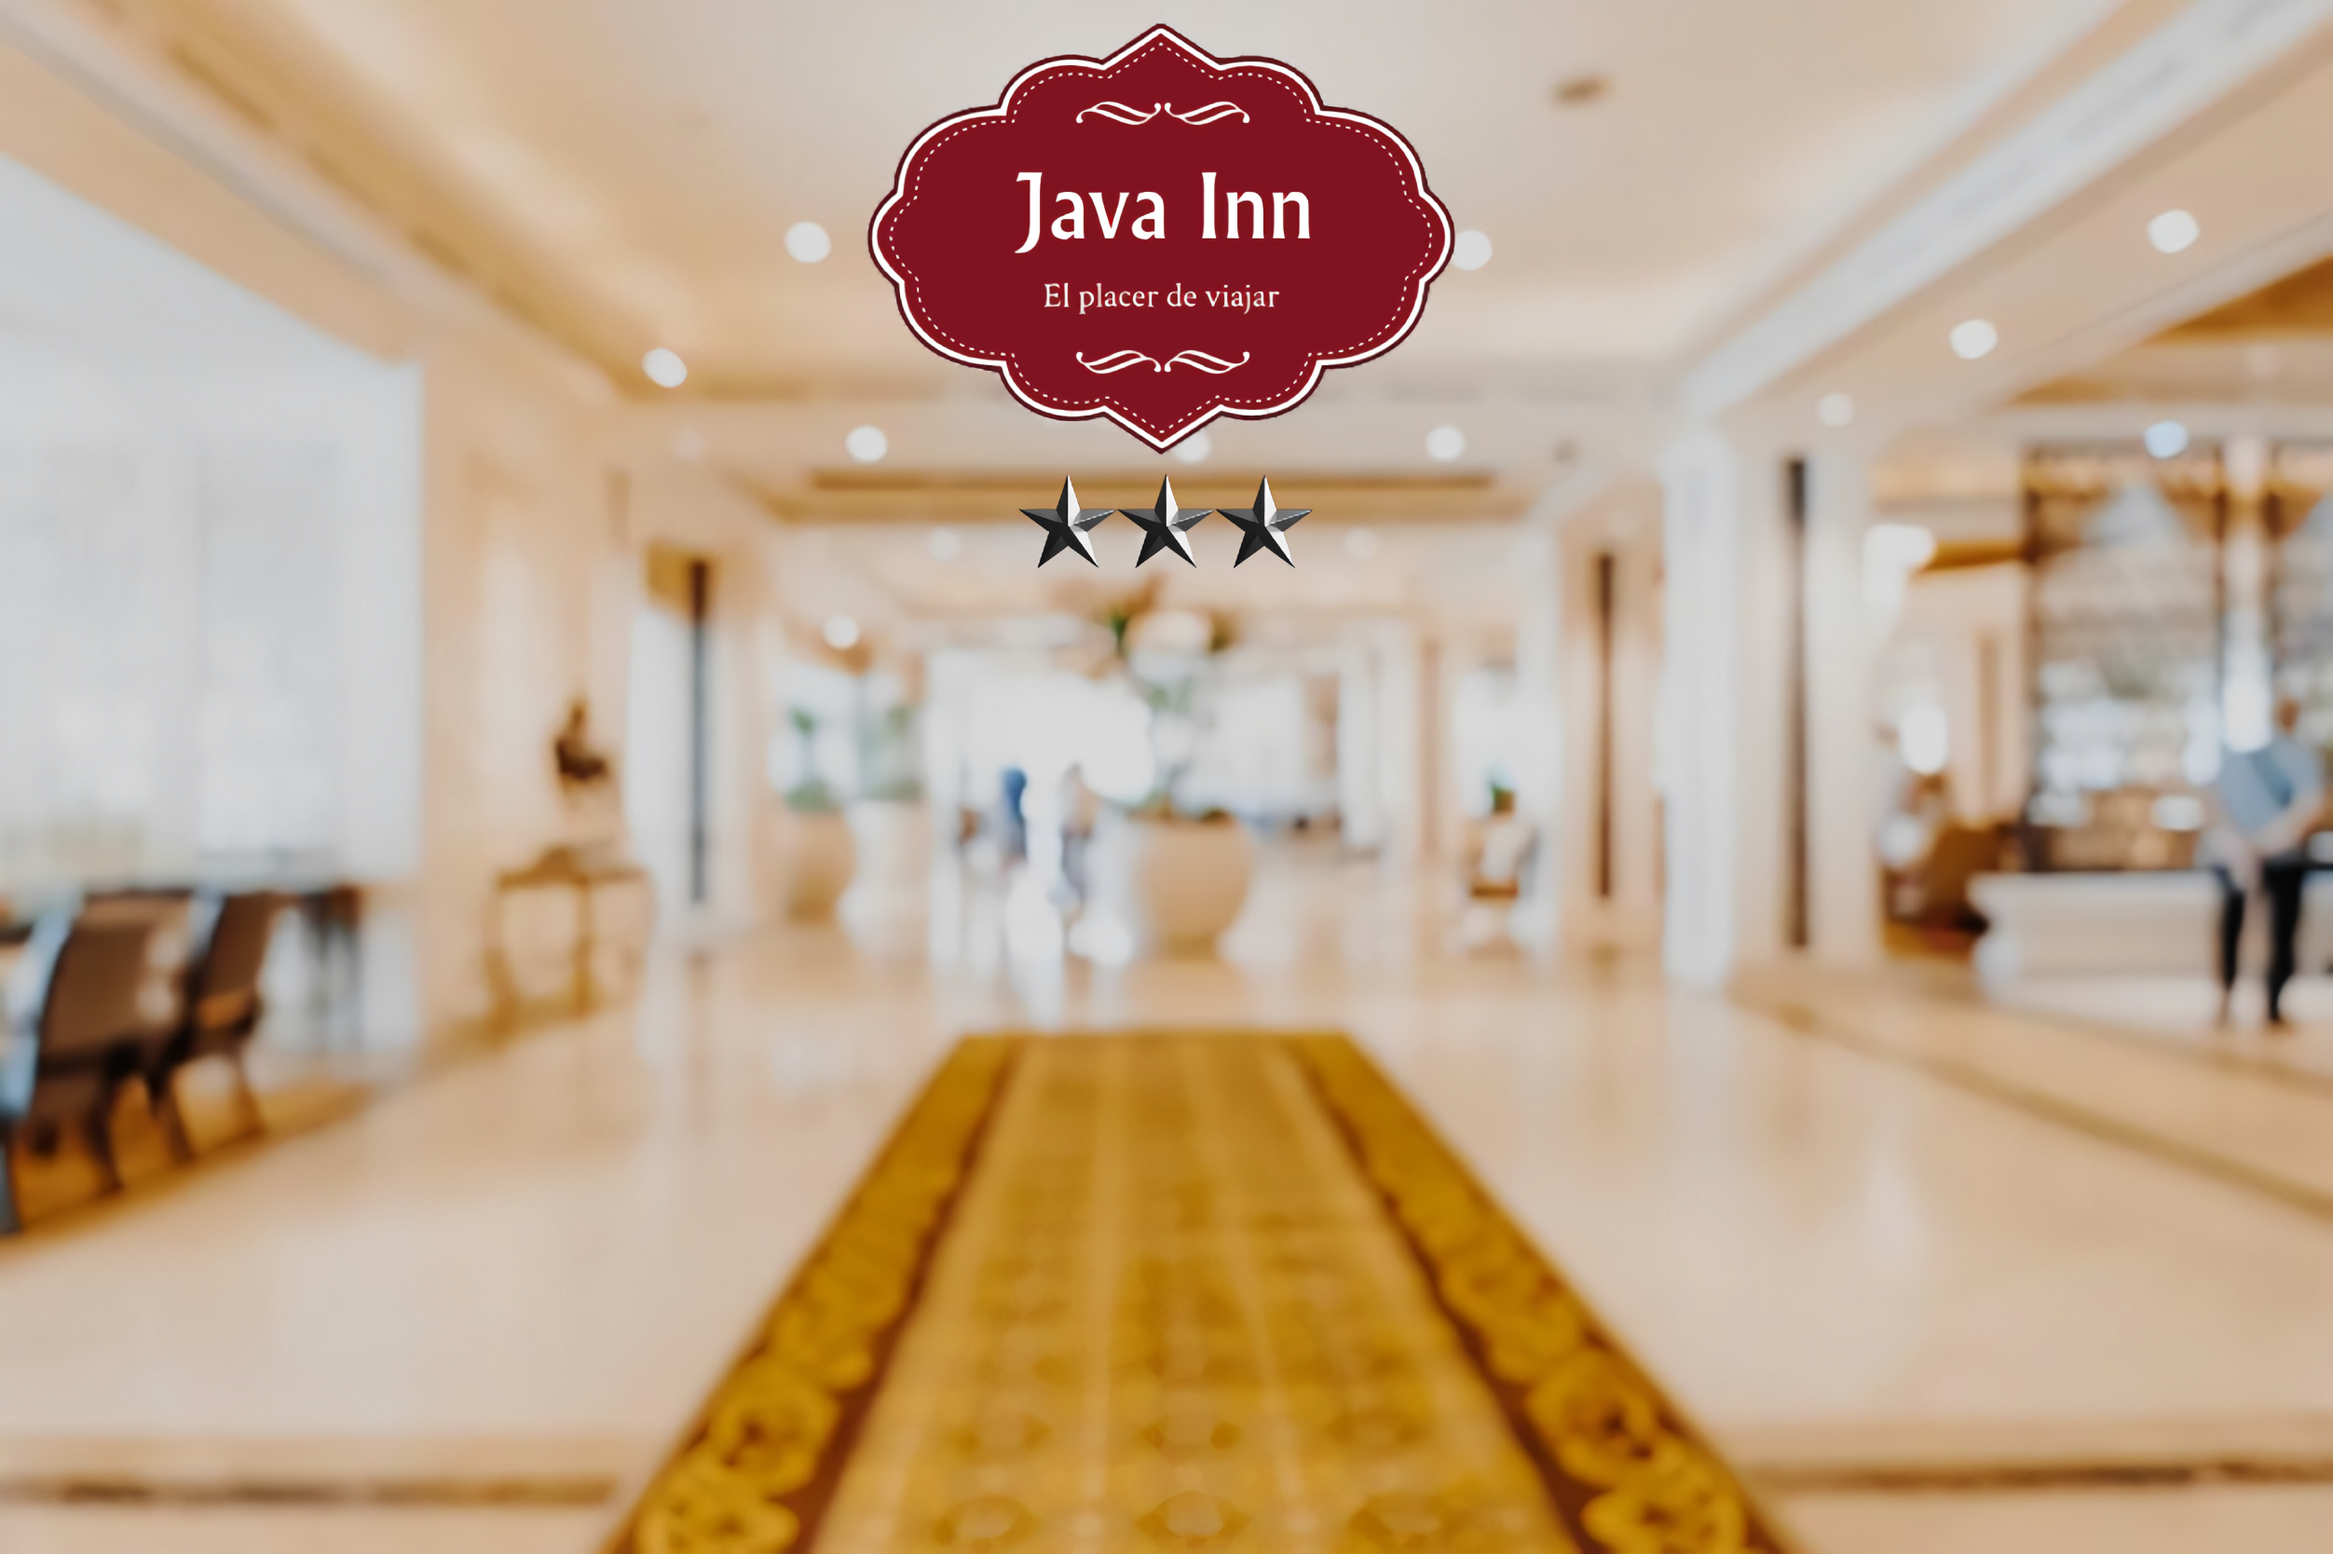
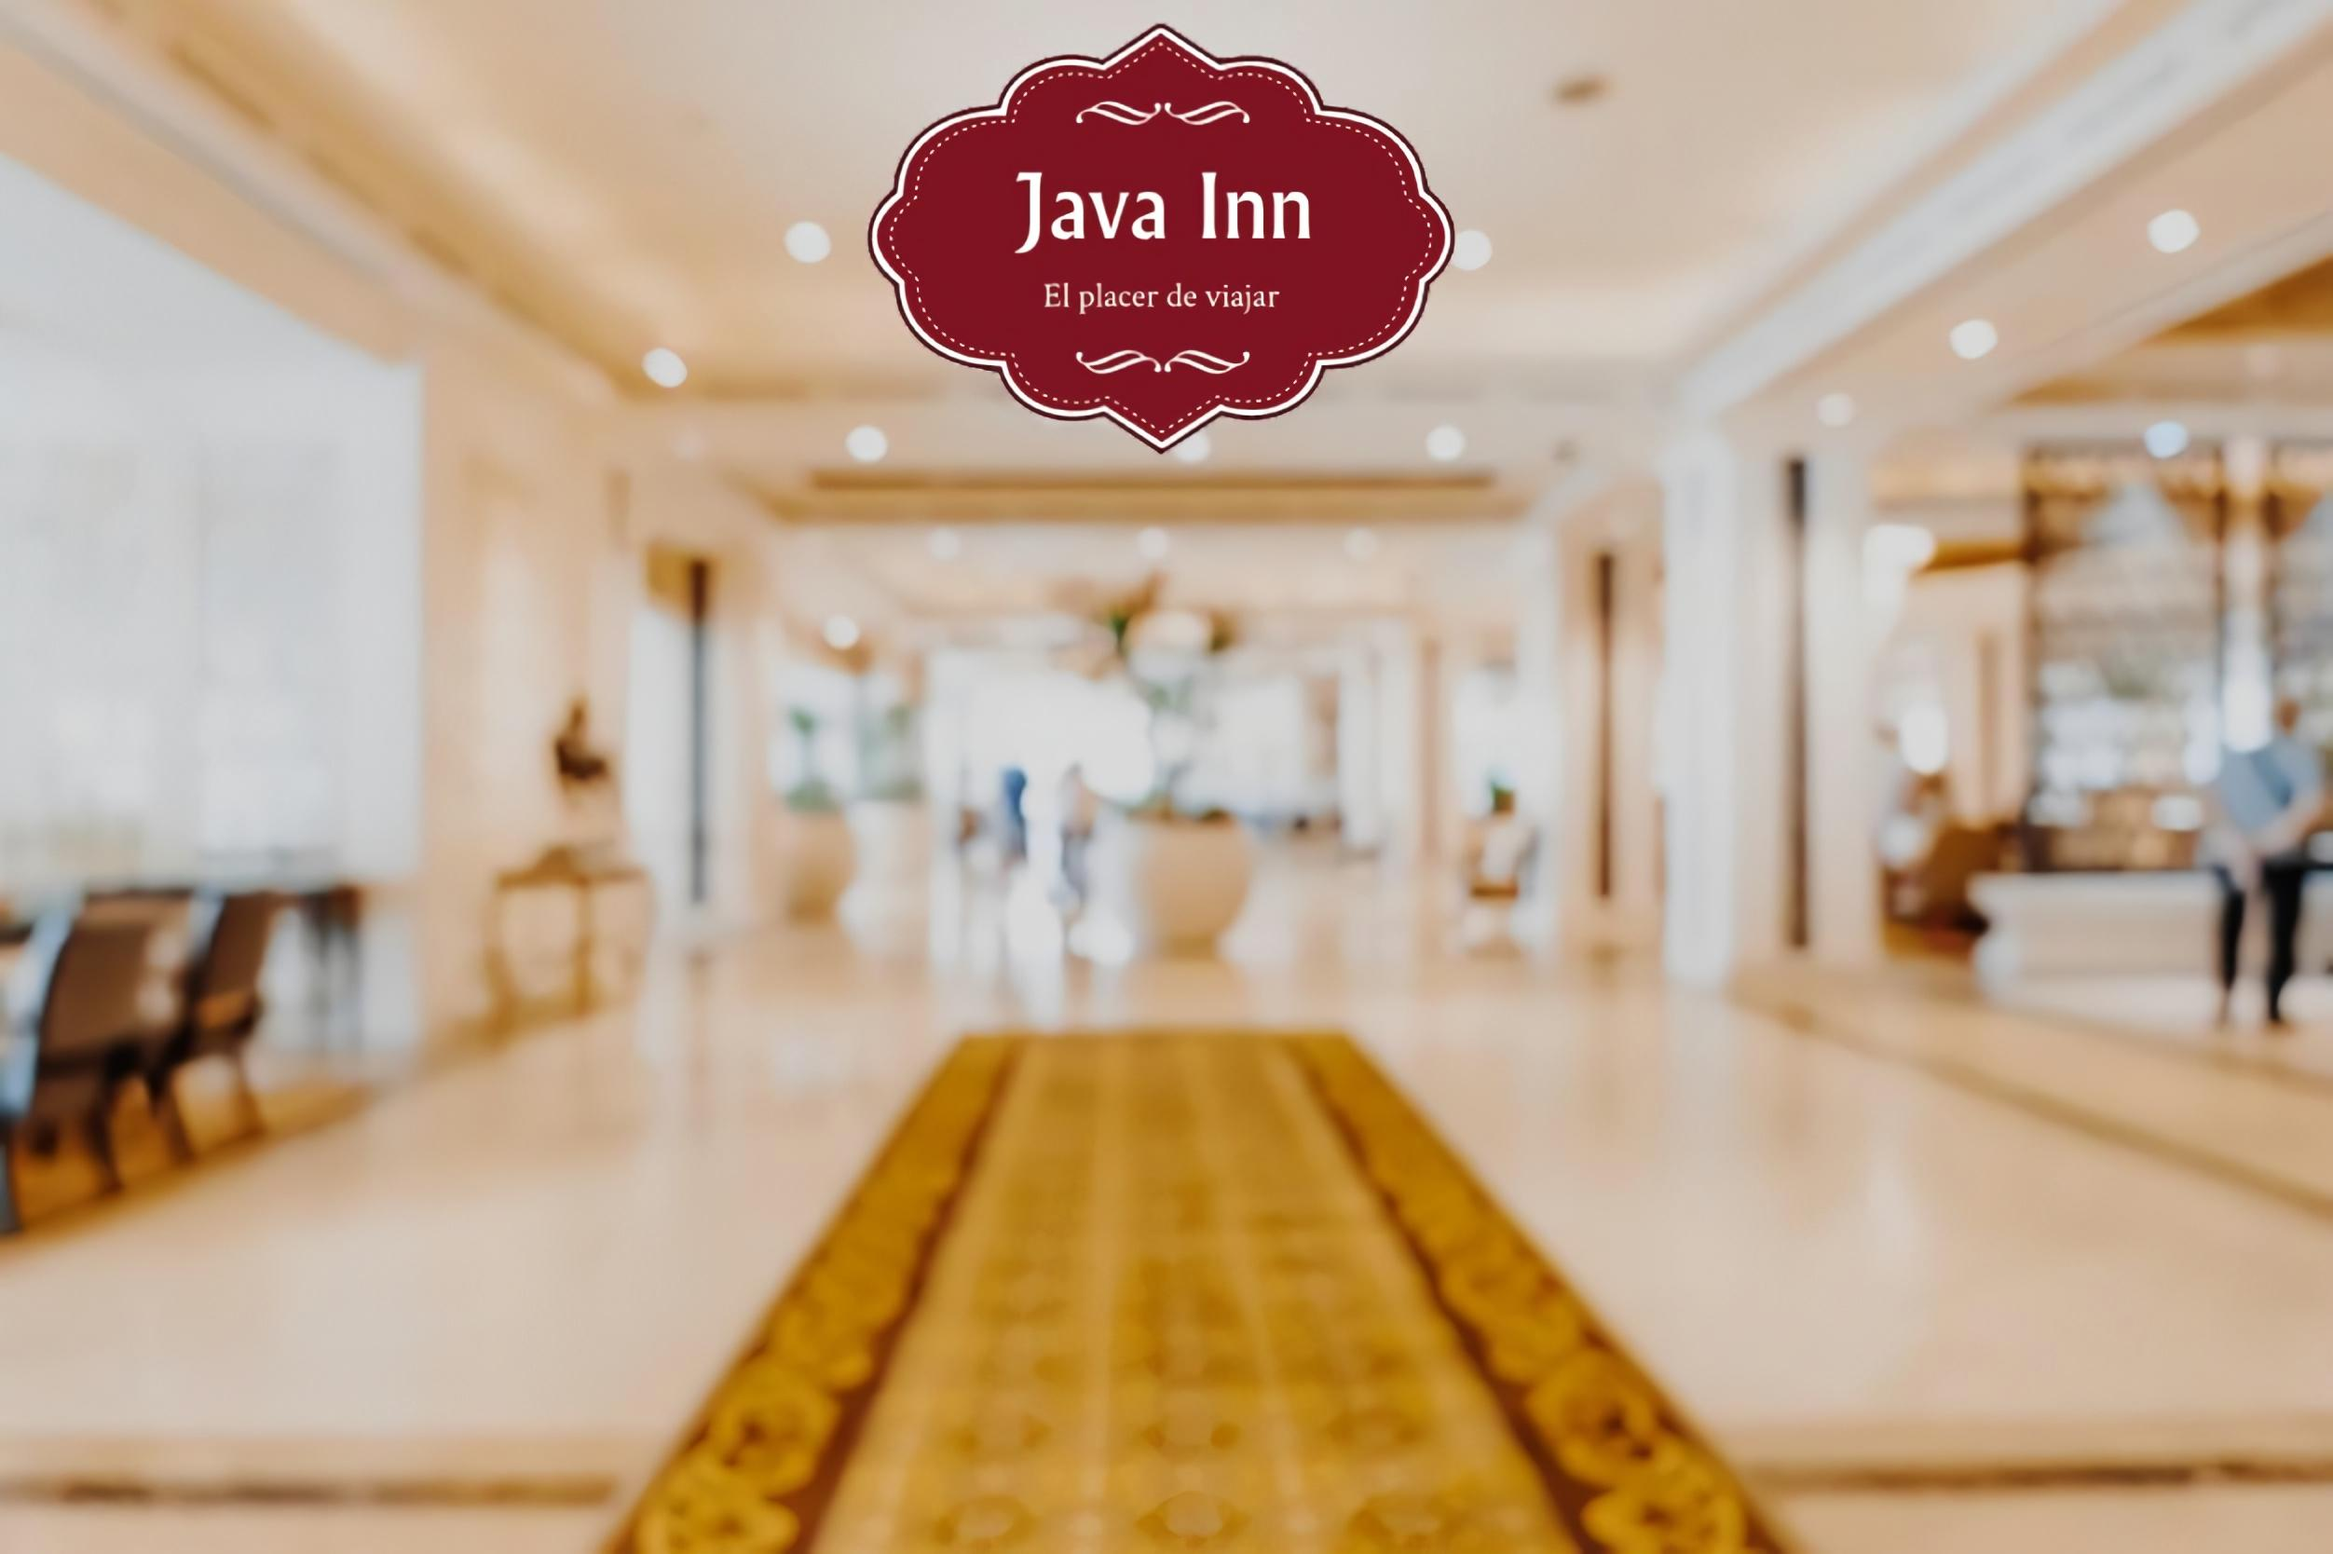
Cambio graphics

diff --git a/src/proyectofinal/Login.java b/src/proyectofinal/Login.java
@@ -38,7 +38,7 @@ public class Login extends javax.swing.JFrame {
       Clip clip;
 
     // Import ImageIcon     
-ImageIcon imageIcon = new ImageIcon(new ImageIcon("src/jlogo1.png").getImage().getScaledInstance(300, 150, Image.SCALE_SMOOTH));
+ImageIcon imageIcon = new ImageIcon(new ImageIcon("src/stars.png").getImage().getScaledInstance(300, 150, Image.SCALE_SMOOTH));
 
 // In init() method write this code
 
@@ -245,8 +245,8 @@ ImageIcon imageIcon = new ImageIcon(new ImageIcon("src/jlogo1.png").getImage().g
     public  void paint(Graphics g){
     super.paint(g);
     Toolkit t = Toolkit.getDefaultToolkit();
-    Image imagen = t.getImage("src/jlogo1.png");
-    g.drawImage(imagen, 480, 0, this.jDesktopPane1);
+    Image imagen = t.getImage("src/stars.png");
+    g.drawImage(imagen, 560, 260, this.jDesktopPane1);
 
 }
     
